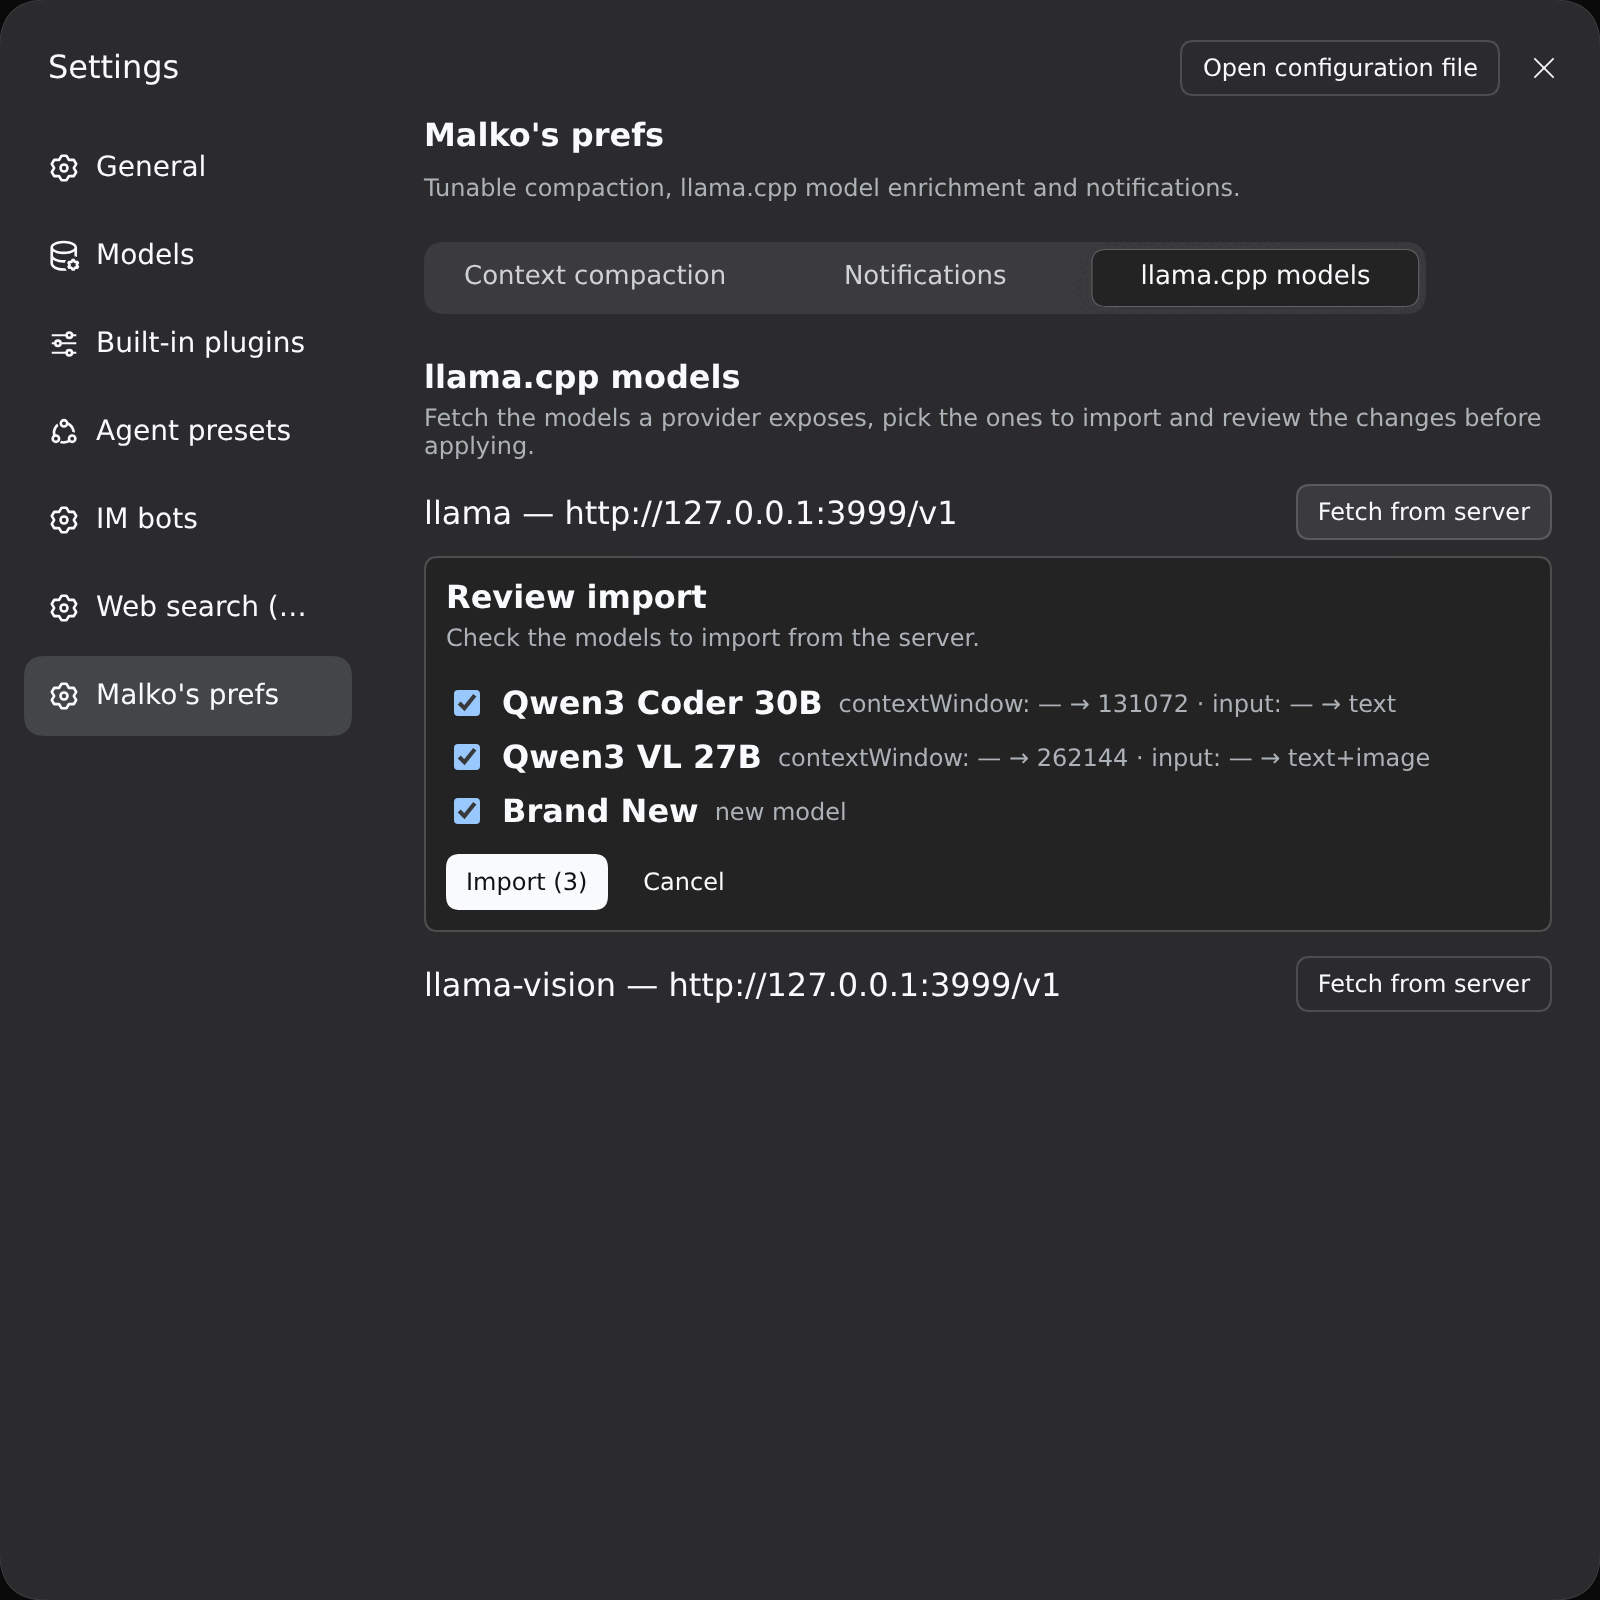
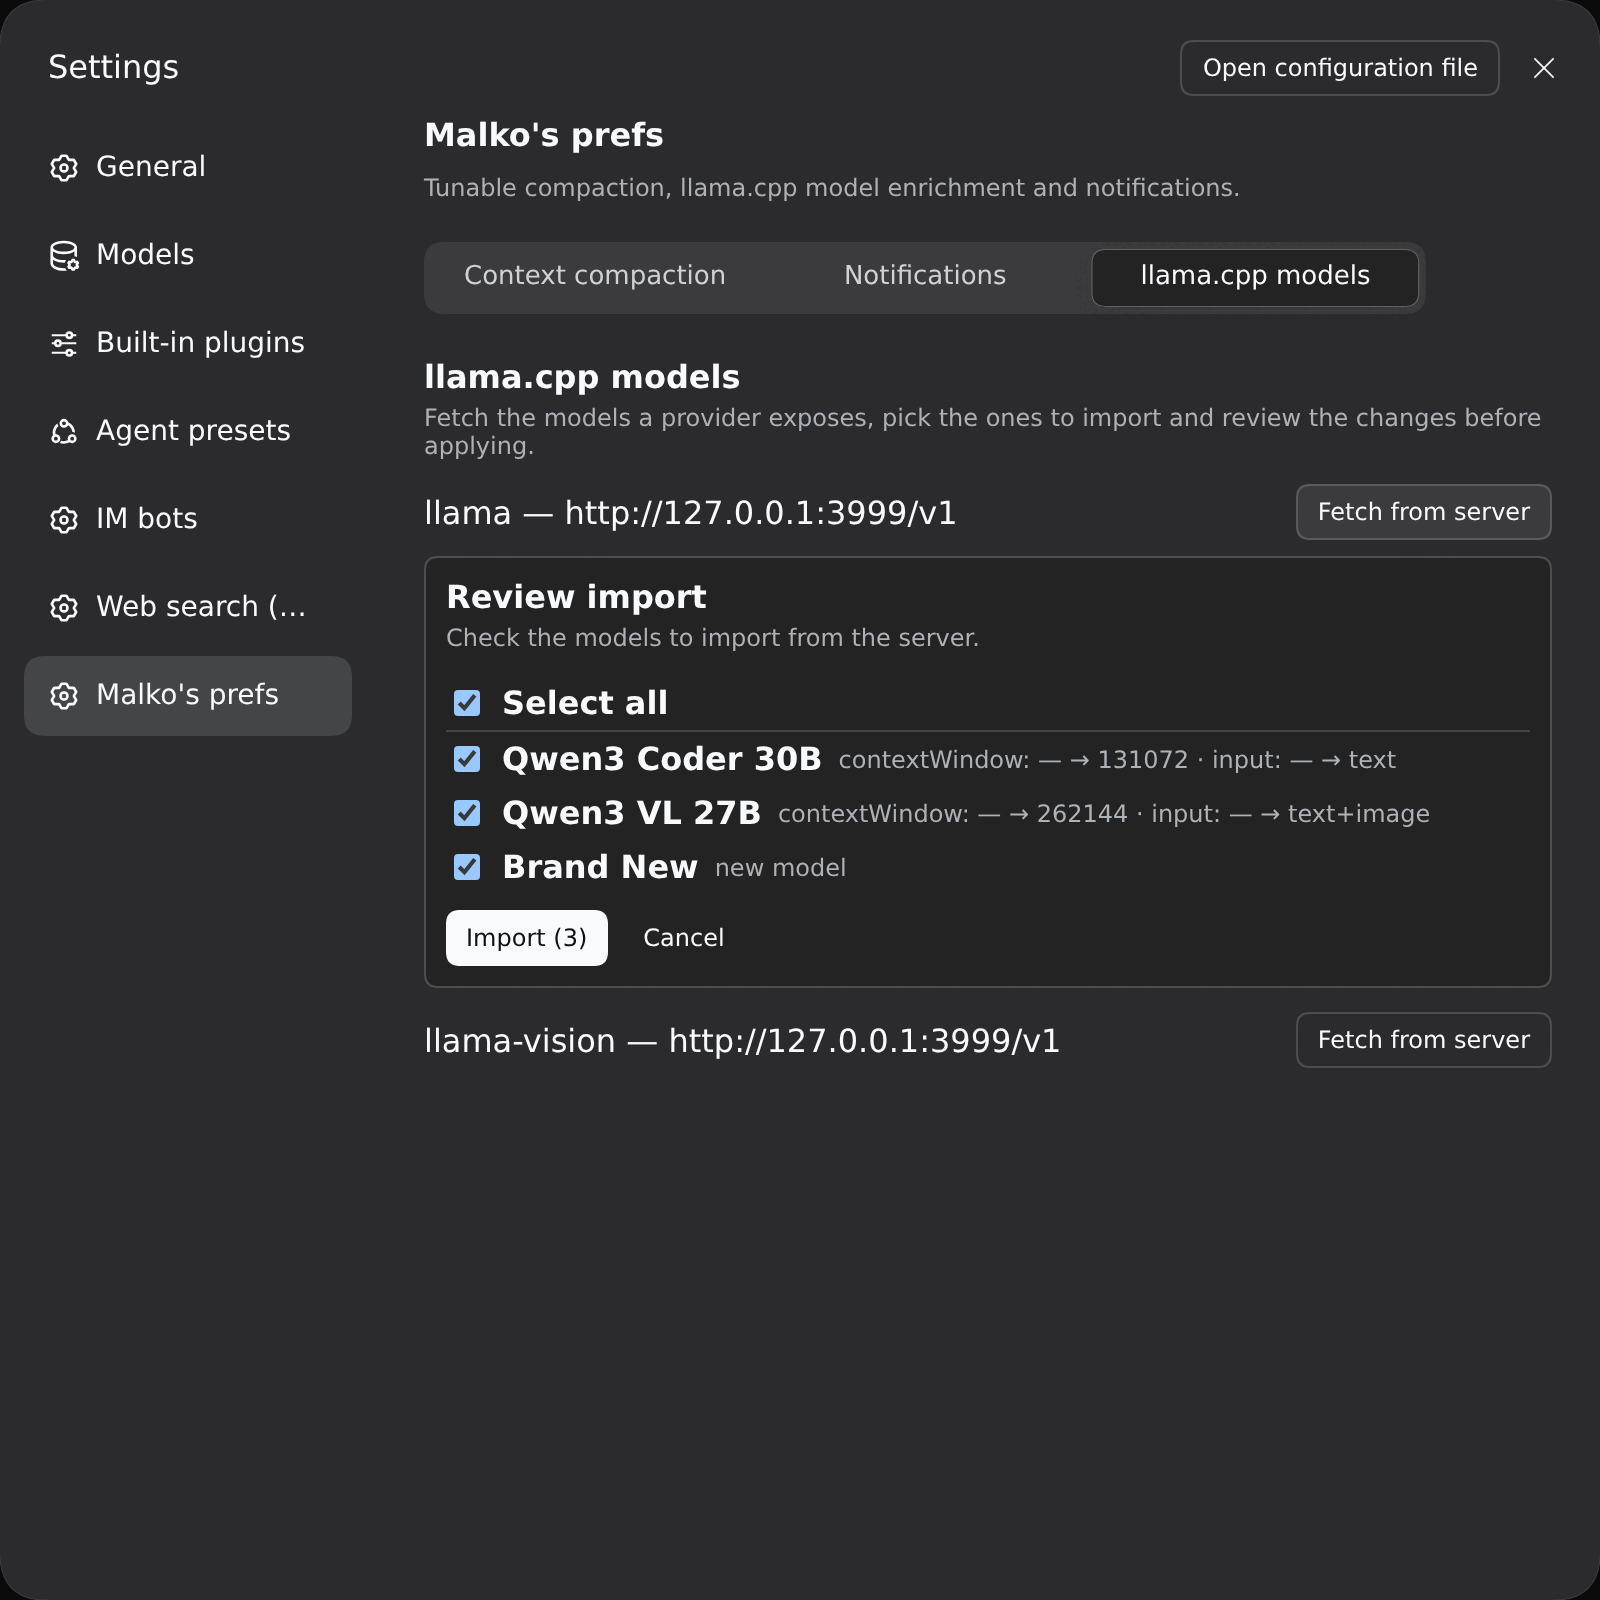
📝 Note Select all and refresh the setup screenshot

Changed region(s): [[0.25, 0.4062, 0.875, 0.6562], [0.8125, 0.5938, 0.9688, 0.6562]]

diff --git a/README.md b/README.md
@@ -133,7 +133,8 @@ reads `GET {baseURL}/models`. It then shows a **review of every discovered
 model** and what importing would change: context window (from
 `meta.n_ctx`/`n_ctx_train`), output cap, and input modalities (from
 `architecture.input_modalities`); models that do not exist yet are marked *new
-model*. Tick the models you want and click **Import** — only the selected ones
+model*. Tick the models you want (or use **Select all**) and click **Import** —
+only the selected ones
 are written (existing entries are updated, new ones appended). The request
 authenticates as the provider does: the endpoint's `apiKeyEnv` credential is
 resolved (dsh credentials, then the host environment) and sent as
